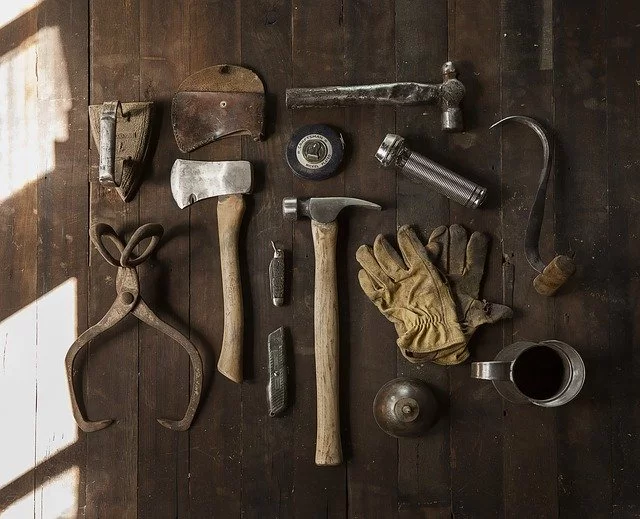
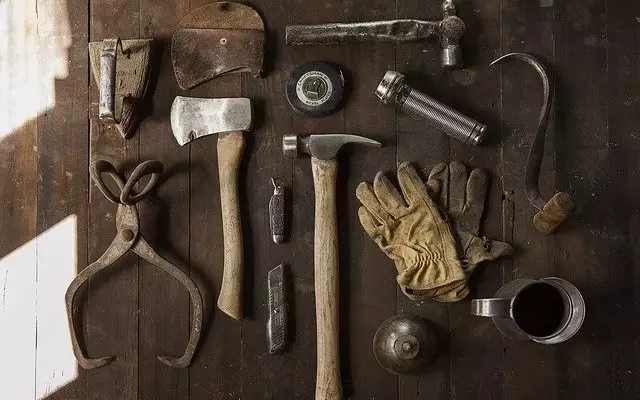
css update

diff --git a/css/styles.css b/css/styles.css
@@ -28,6 +28,12 @@ html{
 	left: 10%;
 	border: 10px solid #4bc6b9ff;
 	border-radius: 50px;
+	transition: .3s ease color;
+	transition: .3s ease background-color;
+}
+.cta:hover{
+	background-color: #4bc6b9ff;
+	color: white;
 }
 span{
 	color:white;
@@ -117,6 +123,7 @@ span{
 #skills .skills-item{
 	display: flex;
 	flex-direction: column;
+	flex-basis: 50%;
 	align-items: center;
 	justify-content: center;
 	width: 80%;
@@ -129,7 +136,6 @@ span{
 	color: black;
 	display: flex;
 	flex-direction: column;
-	flex-basis: 50%;
 	align-items: flex-start;
 	justify-content: center;
 	padding: 30px 20px;
@@ -181,7 +187,6 @@ span{
 }
 #contact h1{
 	font-size: 3.5rem;
-	padding-bottom: 30px;
 }
 #contact h2{
 	font-size: 3.5rem;
@@ -196,4 +201,75 @@ span{
 /* footer */
 footer{
 	background-color: #fadfdc;
+	text-align: center;
+}
+footer p{
+	padding: 5px 0;
+}
+
+/* media 750-950px */
+@media screen and (min-width:750px){
+	#skills .skills-img img{
+		display: block;
+		width: 100vw;
+	}
+	#skills h1{
+		font-size: 2rem;
+	}
+	#skills p{
+		font-size: 1.2rem;
+	}
+	#contact .colm-img{
+		width: 500px;
+		height: 500px;
+	}
+	#contact img{
+		width: 500px;
+		height: 500px;
+	}
+	#contact h1{
+		font-weight: 800;
+	}
+	#contact h3{
+		font-size: 2.5rem;
+	}
+}
+
+/* media 950-1200px */
+@media screen and (min-width:950px){
+	#header .up{
+	opacity: 0;
+	}
+	#header img{
+		width: 40px;
+		height: 40px;
+		padding: 0;
+	}
+	#header .brand{
+		font-size: 1.6rem;
+		margin: 10px 0 0 20px;
+	}
+	#front h1{
+	font-size: 2.5rem;
+	}
+	.cta{
+	font-size: 3rem;
+	padding: 10px;
+	left: 20%;
+	border-radius: 30px;
+	}
+	#skills .skills-item{
+		flex-direction: row;
+		align-items: center;
+		justify-content: center;
+		margin: 0;
+		border-radius: 0;
+		overflow: visible;
+	}
+	#skills .skills-img{
+		height: 100%;
+	}
+	#skills .skills-info{
+		height: 100%;
+	}
 }

diff --git a/index.html b/index.html
@@ -86,7 +86,7 @@
 							eligendi autem. Repudiandae numquam excepturi deserunt?</p>
 						</div>
 
-						<div class="skills-img"><img src="./img/painless.jpg" alt="painless pic"></div>
+						<div class="skills-img"><img src="./img/painless.webp" alt="painless pic"></div>
 
 					</div>
 
